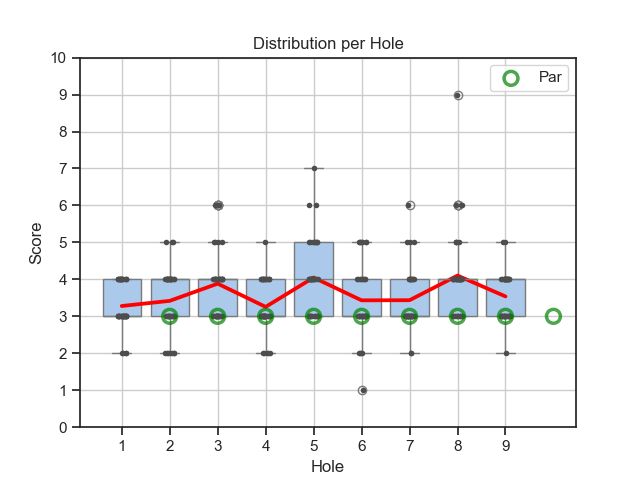
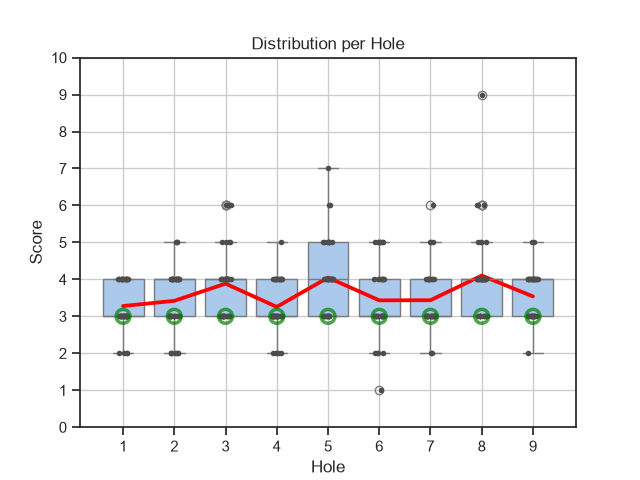
Fix Par in hole distribution

diff --git a/src/udisc_stats/plotting.py b/src/udisc_stats/plotting.py
@@ -115,7 +115,7 @@ def render_hole_distribution_matplotlib(
     averages = plot_data["averages"]
     par = plot_data["par"]
 
-    holes = sorted(scores["Hole"].unique())
+    holes = sorted(par["Hole"].unique())
 
     fig, ax = plt.subplots()
 
@@ -133,6 +133,7 @@ def render_hole_distribution_matplotlib(
         data=scores,
         x="Hole",
         y="Score",
+        order=holes,
         size=4,
         color=".3",
         ax=ax,
@@ -143,6 +144,7 @@ def render_hole_distribution_matplotlib(
         x="Hole",
         y="AverageScore",
         data=averages,
+        order=holes,
         errorbar=None,
         color="red",
         marker="",
@@ -151,10 +153,10 @@ def render_hole_distribution_matplotlib(
 
     # Par
     if not hide_par:
-        sns.scatterplot(
-            x="Hole",
-            y="Par",
-            data=par,
+        par_x = [holes.index(hole) for hole in par["Hole"]]
+        ax.scatter(
+            par_x,
+            par["Par"],
             label="Par",
             zorder=5,
             s=100,
@@ -162,7 +164,6 @@ def render_hole_distribution_matplotlib(
             facecolors="none",
             edgecolor="green",
             alpha=0.7,
-            ax=ax,
         )
 
     ax.set_ylim(bottom=0)
